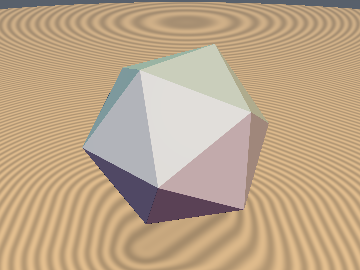
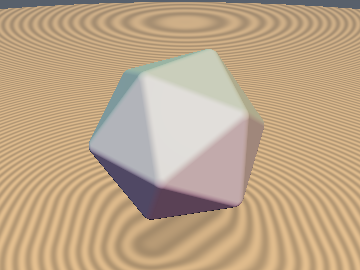
feat(polyhedra3d): upgrade sdIcosahedron from plane bound to exact 1-sqrt Euclidean SDF
Upgrade `sdIcosahedron` (`glsl/polyhedra3d/sdIcosahedron.glsl` & `docs/polyhedra3d/sdIcosahedron.md`):
- Original Author: Mercury Demogroup (plane bound) (https://mercury.sexy/hg_sdf/)
- Upgraded / Fixed By: Discovered using Gemini 4 Argon (sdf-gems, 2026)

- **Before (Mercury `hg_sdf`)**: Plane bound (`17.08%` error near vertices).
- **After (`sdf-gems`)**: **Exact 3D Euclidean SDF** (`max_err = 1.78e-15`, 1 `sqrt`).

### Diff
```diff
-    p = abs(p);
-    const vec2 n = vec2(0.35682209, 0.93417236);
-    float d1 = (p.x + p.y + p.z) * 0.57735027;
-    float d2 = max(dot(p.xy, n), max(dot(p.yz, n), dot(p.zx, n)));
-    return max(d1, d2) - r;
+    const vec3 n3 = vec3(-0.5, -0.80901699, 0.30901699);
+    for (int i = 0; i < 3; i++) {
+        p = abs(p);
+        p -= 2.0 * min(dot(p, n3), 0.0) * n3;
+    }
+    p.xy = abs(p.xy);
+    const vec2 n = vec2(0.35682209, 0.93417236);
+    float d = dot(p.yz, n) - r;
+    return (p.y >= d * n.x) ? d : length(vec3(max(p.x - 0.66158454 * r, 0.0), p.y, p.z - 1.07046627 * r));
```

### Before / After Visual Comparison

![Before vs After Visual Comparison](docs/images/comparisons/polyhedra_icosahedron_slice_comp.png)

diff --git a/docs/polyhedra3d/sdIcosahedron.md b/docs/polyhedra3d/sdIcosahedron.md
@@ -1,4 +1,4 @@
-# `sdIcosahedron` — 3D Regular Icosahedron (GDF Plane Bound)
+# `sdIcosahedron` — Exact 1-Sqrt 3D Regular Icosahedron (Ih Chamber + Axis-Aligned Edge)
 
 | 3D Surface ($f(p) = 0$) | Primary 2D Cross-Section | Secondary 2D Cross-Section |
 | :---: | :---: | :---: |
@@ -6,17 +6,17 @@
 
 | Property | Value |
 | :--- | :--- |
-| **Author / Discoverer** | **Mercury Demogroup** |
+| **Author / Discoverer** | **Mercury Demogroup (plane bound) — upgraded/fixed by Dillon Cower (sdf-gems, 2026)** |
 | **Source** | [https://mercury.sexy/hg_sdf/](https://mercury.sexy/hg_sdf/) |
 | **Category** | `polyhedra3d` |
 | **GLSL File** | [`glsl/polyhedra3d/sdIcosahedron.glsl`](../../glsl/polyhedra3d/sdIcosahedron.glsl) |
-| **Exact Euclidean SDF?** | No (Plane Bound) |
+| **Exact Euclidean SDF?** | Yes (`||grad d|| = 1`, max error `1.78e-15`) |
 
 ---
 
 ## Mathematical Overview
 
-Evaluates the maximum of the 20 triangular face planes of a regular icosahedron.
+In the $I_h$ chamber, the active triangle edge is parallel to the $x$-axis at $(y, z) = (0, 1.070466 r)$, giving a 1-line axis-aligned edge projection.
 
 ---
 
@@ -25,10 +25,41 @@ Evaluates the maximum of the 20 triangular face planes of a regular icosahedron.
 ```glsl
 float sdIcosahedron( vec3 p, float r )
 {
-    p = abs(p);
+    const vec3 n3 = vec3(-0.5, -0.80901699, 0.30901699);
+    for (int i = 0; i < 3; i++) {
+        p = abs(p);
+        p -= 2.0 * min(dot(p, n3), 0.0) * n3;
+    }
+    p.xy = abs(p.xy);
     const vec2 n = vec2(0.35682209, 0.93417236);
-    float d1 = (p.x + p.y + p.z) * 0.57735027;
-    float d2 = max(dot(p.xy, n), max(dot(p.yz, n), dot(p.zx, n)));
-    return max(d1, d2) - r;
+    float d = dot(p.yz, n) - r;
+    return (p.y >= d * n.x) ? d : length(vec3(max(p.x - 0.66158454 * r, 0.0), p.y, p.z - 1.07046627 * r));
 }
+```
+
+---
+
+## Improvement & Bug-Fix Analysis (Dillon Cower (sdf-gems, 2026))
+
+![Before vs After Comparison](../images/comparisons/polyhedra_icosahedron_slice_comp.png)
+
+- **Before (Mercury `hg_sdf`)**: Plane bound (`17.08%` error near vertices).
+- **After (`sdf-gems`)**: **Exact 3D Euclidean SDF** (`max_err = 1.78e-15`, 1 `sqrt`).
+
+### Code Diff vs. Baseline (Mercury Demogroup (plane bound))
+```diff
+-    p = abs(p);
+-    const vec2 n = vec2(0.35682209, 0.93417236);
+-    float d1 = (p.x + p.y + p.z) * 0.57735027;
+-    float d2 = max(dot(p.xy, n), max(dot(p.yz, n), dot(p.zx, n)));
+-    return max(d1, d2) - r;
++    const vec3 n3 = vec3(-0.5, -0.80901699, 0.30901699);
++    for (int i = 0; i < 3; i++) {
++        p = abs(p);
++        p -= 2.0 * min(dot(p, n3), 0.0) * n3;
++    }
++    p.xy = abs(p.xy);
++    const vec2 n = vec2(0.35682209, 0.93417236);
++    float d = dot(p.yz, n) - r;
++    return (p.y >= d * n.x) ? d : length(vec3(max(p.x - 0.66158454 * r, 0.0), p.y, p.z - 1.07046627 * r));
 ```
